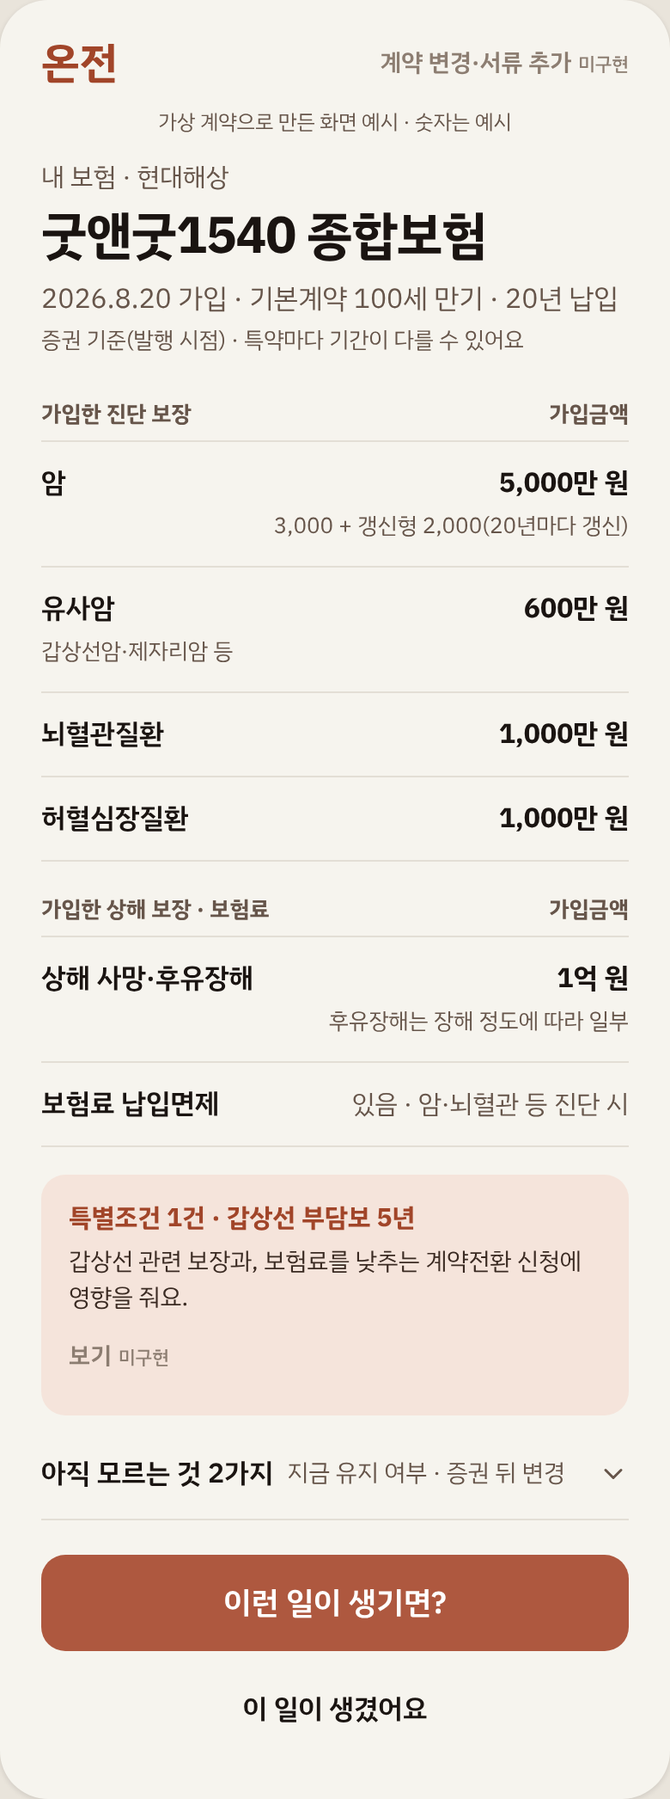
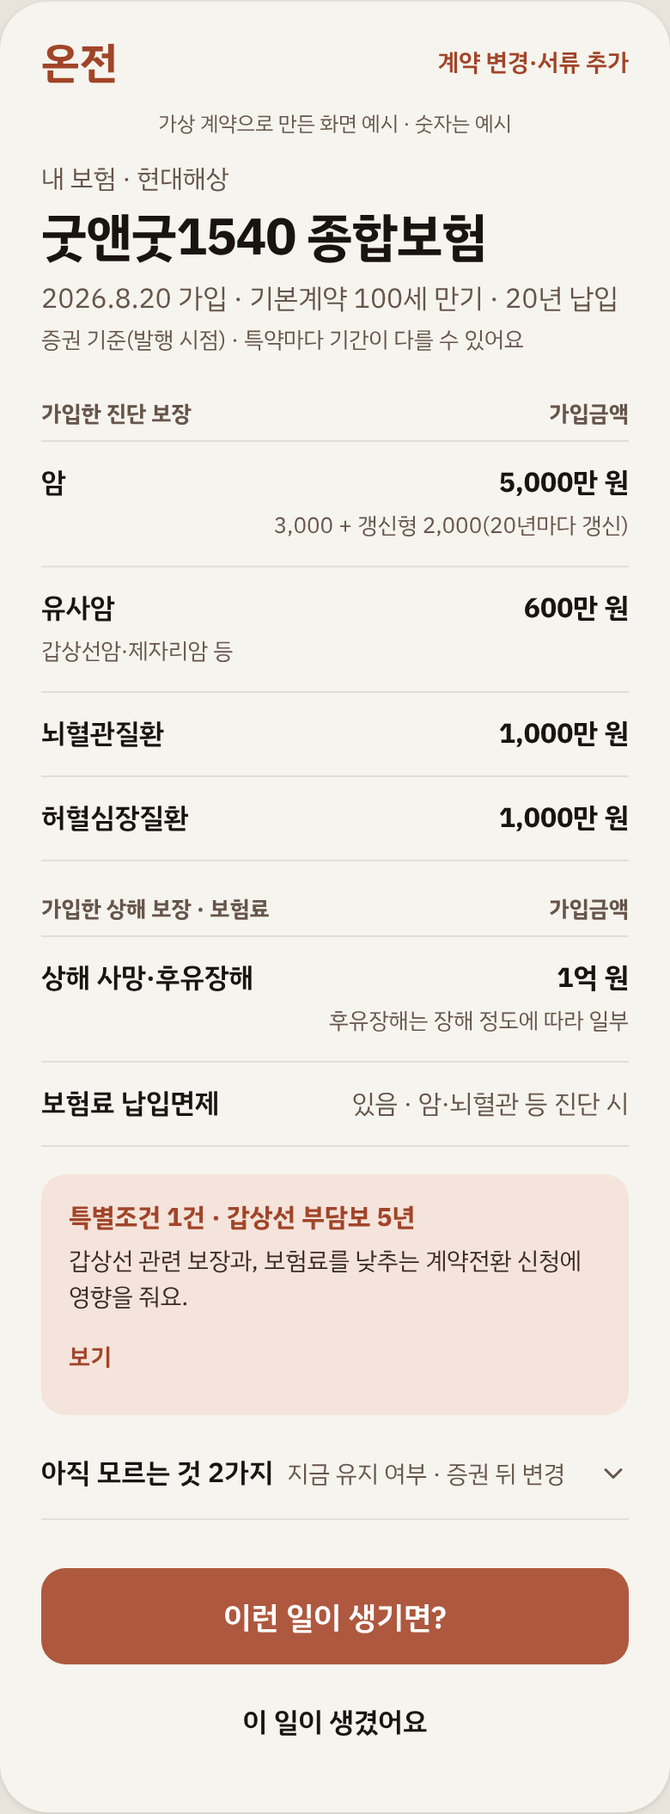
토의 자료: 20차 — 시안 전용 버튼은 실제 디자인+시안 안내, 제품상 불가는 비활성+이유, 겹침·잘림 중심 검사 55항목, 이해 점검 기록
토의 자료이며 설계 채택이나 구현 승인을 뜻하지 않음. 시안 숫자는 계산 엔진과 연결되지 않은 예시.

Claude-Session: https://claude.ai/code/session_01LaYnzNyNWYGvf2wDAbtvPd

diff --git a/docs/blueprint/proposals/시안_세흐름/세흐름_시안.html b/docs/blueprint/proposals/시안_세흐름/세흐름_시안.html
@@ -50,7 +50,7 @@
   .tint .d{font-size:14px;color:#3A2A22}
   .general{font-size:13px;color:var(--ink2);line-height:1.5;margin-top:16px}
   .link-btn{border:0;background:transparent;padding:0;font:inherit;font-weight:600;color:var(--accent-text);cursor:pointer;min-height:44px}
-  .cta{display:flex;flex-direction:column;gap:10px;padding-top:20px}
+  .cta{display:flex;flex-direction:column;gap:10px;padding-top:28px}
   .primary{display:flex;align-items:center;justify-content:center;gap:8px;min-height:56px;border:0;border-radius:14px;background:var(--accent);color:#FFFFFF;font:inherit;font-size:18px;font-weight:600;text-decoration:none;cursor:pointer;width:100%}
   .secondary{display:flex;align-items:center;justify-content:center;gap:8px;min-height:48px;border:0;background:transparent;color:var(--ink);font:inherit;font-size:16px;font-weight:600;text-decoration:none;cursor:pointer}
   .choice{min-height:48px;border:1px solid var(--line2);background:var(--surface);border-radius:12px;font:inherit;font-size:15px;font-weight:600;color:var(--ink);cursor:pointer}
@@ -62,12 +62,6 @@
   .note{font-size:13px;color:var(--ink2)}
   .summary-row{display:flex;align-items:center;gap:8px;margin-top:12px;min-height:44px;font-size:15px}
   .summary-row .tag{font-weight:600}
-  /* 연결 안 된 버튼: 차분한 비활성 + 작은 표시 */
-  .off{color:var(--off) !important;cursor:default}
-  .off .off-tag{font-size:11px;font-weight:500;color:var(--off);margin-left:4px}
-  .choice.off{border-color:var(--line);background:transparent}
-  .primary.off{background:#E8DCD3;color:var(--off) !important}
-  .icon-btn.off svg{stroke:#B3A79C}
   /* 시트 */
   .scrim{position:absolute;inset:0;background:rgba(26,20,17,.38);display:flex;align-items:flex-end}
   .sheet{width:100%;background:var(--surface);border-radius:20px 20px 0 0;padding:10px 24px 24px;display:flex;flex-direction:column;gap:10px}
@@ -83,13 +77,15 @@
   .opt:focus-within{box-shadow:0 0 0 3px rgba(174,88,63,.25)}
   .sheet-actions{display:grid;grid-template-columns:1fr 2fr;gap:8px;margin-top:6px}
   .done[disabled]{background:#E8DCD3;color:var(--off);cursor:default}
+  .toast{position:absolute;left:24px;right:24px;bottom:24px;background:#2A211C;color:#FFFDFA;font-size:14px;line-height:1.45;border-radius:12px;padding:12px 14px;box-shadow:0 4px 16px rgba(26,20,17,.25)}
+  .why{font-size:13px;color:var(--ink2);text-align:right}
   [hidden]{display:none !important}
   @media (max-width:440px){.wrap{padding:16px 8px 40px}.screen{border-radius:20px}}
 </style>
 </head>
 <body>
 <div class="wrap">
-  <p class="page-note"><b>가상 계약·가상 사건으로 만든 화면 예시입니다.</b> 숫자는 가상 계약과 약관 조항으로 손으로 계산한 예시이며 계산 엔진과 연결되지 않았습니다. 흐린 글자에 <b>"미구현"</b>이 붙은 버튼은 아직 연결하지 않아 눌러도 아무 일이 없습니다.</p>
+  <p class="page-note"><b>가상 계약·가상 사건으로 만든 화면 예시입니다.</b> 숫자는 가상 계약과 약관 조항으로 손으로 계산한 예시이며 계산 엔진과 연결되지 않았습니다. 시안에서 아직 연결하지 않은 버튼은 <b>실제 모양 그대로</b> 두었고, 누르면 "화면 시안이라 아직 연결되지 않았어요"라고 알려 줍니다.</p>
   <div class="row">
 
     <!-- A -->
@@ -97,7 +93,7 @@
       <h2 id="ha">A. 이런 일이 생기면? (가상 탐색)</h2>
       <div class="screen" id="screen-a" data-testid="screen-a">
         <div class="top">
-          <button class="icon-btn off" aria-disabled="true" aria-label="뒤로 (미구현)"><svg width="22" height="22" viewBox="0 0 24 24" fill="none" stroke="#1A1411" stroke-width="2" stroke-linecap="round" stroke-linejoin="round" aria-hidden="true"><path d="M15 18l-6-6 6-6"/></svg></button>
+          <button class="icon-btn" data-proto aria-label="뒤로"><svg width="22" height="22" viewBox="0 0 24 24" fill="none" stroke="#1A1411" stroke-width="2" stroke-linecap="round" stroke-linejoin="round" aria-hidden="true"><path d="M15 18l-6-6 6-6"/></svg></button>
           <div class="title-bar">이런 일이 생기면? <span class="crumb">· 굿앤굿1540</span></div>
         </div>
         <div class="virtual">가상 계약으로 만든 화면 예시 · 숫자는 예시</div>
@@ -124,7 +120,7 @@
         <div class="assume" data-testid="a-assume">
           <span class="pill">예시 조건</span>
           <span>2027.3.15 진단 · 처음 받는 진단금</span>
-          <button class="link-btn off" aria-disabled="true" style="margin-left:auto;font-size:13px;min-height:36px">바꾸기<span class="off-tag">미구현</span></button>
+          <button class="link-btn" data-proto style="margin-left:auto;font-size:13px;min-height:36px">바꾸기</button>
         </div>
 
         <div data-a="general">
@@ -146,11 +142,12 @@
             <div class="t">이 부위에 특별조건이 있어요</div>
             <div class="d">증권: 갑상선 · 부담보 5년</div>
             <div class="d">예외 적용 여부가 확인되지 않아 지급액 계산을 보류했어요.</div>
-            <button class="link-btn off" aria-disabled="true" style="align-self:flex-start;font-size:14px">적용 조건 보기<span class="off-tag">미구현</span></button>
+            <button class="link-btn" data-proto style="align-self:flex-start;font-size:14px">적용 조건 보기</button>
           </div>
         </div>
 
-        <div class="general">약관에 따라 계산한 금액이에요. 실제 지급은 보험회사 심사로 정해져요. <button class="link-btn off" aria-disabled="true" style="font-size:13px;min-height:24px;margin-left:4px">자세히<span class="off-tag">미구현</span></button></div>
+        <div class="general">약관에 따라 계산한 금액이에요. 실제 지급은 보험회사 심사로 정해져요. <button class="link-btn" data-proto style="font-size:13px;min-height:24px;margin-left:4px">자세히</button></div>
+        <div class="toast" role="status" aria-live="polite" hidden data-toast></div>
         <div class="cta">
           <a class="primary" href="#screen-c">실제로 진단받았어요</a>
           <a class="secondary" href="#screen-b">내 보험 보기</a>
@@ -164,7 +161,7 @@
       <div class="screen" id="screen-b" data-testid="screen-b">
         <div class="top">
           <div class="logo">온전</div>
-          <button class="link-btn off" aria-disabled="true" style="margin-left:auto;font-size:14px">계약 변경·서류 추가<span class="off-tag">미구현</span></button>
+          <button class="link-btn" data-proto style="margin-left:auto;font-size:14px">계약 변경·서류 추가</button>
         </div>
         <div class="virtual">가상 계약으로 만든 화면 예시 · 숫자는 예시</div>
         <div class="crumb">내 보험 · 현대해상</div>
@@ -188,7 +185,7 @@
         <div class="tint" style="margin-top:16px;padding:14px 16px;gap:4px">
           <div class="t" style="font-size:15px">특별조건 1건 · 갑상선 부담보 5년</div>
           <div class="d">갑상선 관련 보장과, 보험료를 낮추는 계약전환 신청에 영향을 줘요.</div>
-          <button class="link-btn off" aria-disabled="true" style="align-self:flex-start;font-size:14px;min-height:40px">보기<span class="off-tag">미구현</span></button>
+          <button class="link-btn" data-proto style="align-self:flex-start;font-size:14px;min-height:40px">보기</button>
         </div>
 
         <div style="border-bottom:1px solid var(--line);margin-top:8px">
@@ -202,8 +199,8 @@
               <div style="font-size:15px;font-weight:600">지금도 유지 중인가요?</div>
               <div class="note" style="font-size:14px">사고나 진단 금액을 볼 때 필요해요. 지금 답하지 않아도 돼요.</div>
               <div style="display:flex;gap:8px;flex-wrap:wrap;margin-top:4px">
-                <button class="choice off" aria-disabled="true" style="padding:0 12px;font-size:14px">유지 중이에요<span class="off-tag">미구현</span></button>
-                <button class="choice off" aria-disabled="true" style="padding:0 12px;font-size:14px">해지·실효된 적 있어요<span class="off-tag">미구현</span></button>
+                <button class="choice" data-proto style="padding:0 12px;font-size:14px">유지 중이에요</button>
+                <button class="choice" data-proto style="padding:0 12px;font-size:14px">해지·실효된 적 있어요</button>
               </div>
             </div>
             <div style="display:flex;flex-direction:column;gap:6px">
@@ -213,6 +210,7 @@
           </div>
         </div>
 
+        <div class="toast" role="status" aria-live="polite" hidden data-toast></div>
         <div class="cta">
           <a class="primary" href="#screen-a">이런 일이 생기면?</a>
           <a class="secondary" href="#screen-c">이 일이 생겼어요</a>
@@ -225,7 +223,7 @@
       <h2 id="hc">C. 이 일이 생겼어요 (실제 사건)</h2>
       <div class="screen" id="screen-c" data-testid="screen-c">
         <div class="top">
-          <button class="icon-btn off" aria-disabled="true" aria-label="뒤로 (미구현)"><svg width="22" height="22" viewBox="0 0 24 24" fill="none" stroke="#1A1411" stroke-width="2" stroke-linecap="round" stroke-linejoin="round" aria-hidden="true"><path d="M15 18l-6-6 6-6"/></svg></button>
+          <button class="icon-btn" data-proto aria-label="뒤로"><svg width="22" height="22" viewBox="0 0 24 24" fill="none" stroke="#1A1411" stroke-width="2" stroke-linecap="round" stroke-linejoin="round" aria-hidden="true"><path d="M15 18l-6-6 6-6"/></svg></button>
           <div class="crumb">이 일이 생겼어요 · 굿앤굿1540</div>
         </div>
         <div class="virtual">가상 계약·가상 사건으로 만든 화면 예시 · 숫자는 예시</div>
@@ -261,7 +259,7 @@
               <div class="r" data-row="renew"><span class="n">암진단(갱신형)</span><span class="v">2,000만 원</span></div>
               <div class="r" data-row="waiver"><span class="n">보험료납입면제대상</span><span class="v">100만 원</span></div>
               <div class="r" style="flex-wrap:wrap"><span class="n">보험료 납입면제</span><span class="m" style="font-size:15px">다음 회차부터 · 요청 필요</span>
-                <button class="link-btn off" aria-disabled="true" data-testid="c-waiver-guide" style="font-size:14px;min-height:36px;width:100%;text-align:left">납입면제 요청 안내<span class="off-tag">미구현</span></button>
+                <button class="link-btn" data-proto data-testid="c-waiver-guide" style="font-size:14px;min-height:36px;width:100%;text-align:left">납입면제 요청 안내</button>
               </div>
             </div>
           </div>
@@ -275,14 +273,15 @@
               <span class="k">결과보고일</span><span>2027.1.5 · 결과지에서 읽고 확인함</span>
               <span class="k">계약 유지</span><span>2027.2.1에 답하신 내용(문서 확인 아님)</span>
               <span class="k">계약 내용</span><span>증권 기준(발행 시점)</span>
-              <span style="grid-column:1 / 3"><button class="link-btn off" aria-disabled="true" style="font-size:14px">고치기<span class="off-tag">미구현</span></button></span>
+              <span style="grid-column:1 / 3"><button class="link-btn" data-proto style="font-size:14px">고치기</button></span>
             </div>
           </div>
         </div>
 
-        <div class="general">약관에 따라 계산한 금액이에요. 실제 지급은 보험회사 심사로 정해져요. <button class="link-btn off" aria-disabled="true" style="font-size:13px;min-height:24px;margin-left:4px">자세히<span class="off-tag">미구현</span></button></div>
+        <div class="general">약관에 따라 계산한 금액이에요. 실제 지급은 보험회사 심사로 정해져요. <button class="link-btn" data-proto style="font-size:13px;min-height:24px;margin-left:4px">자세히</button></div>
+        <div class="toast" role="status" aria-live="polite" hidden data-toast></div>
         <div class="cta" data-testid="c-cta">
-          <button class="primary off" aria-disabled="true">보험금 청구 준비<span class="off-tag">미구현</span></button>
+          <button class="primary" data-proto>보험금 청구 준비</button>
         </div>
 
         <!-- 이전에 받은 보장 고르기 시트 -->
@@ -297,8 +296,9 @@
             <label class="opt" data-opt="unknown"><input type="checkbox" value="unknown"><span class="box"><svg width="14" height="14" viewBox="0 0 24 24" fill="none" stroke="#FFFFFF" stroke-width="3" stroke-linecap="round" stroke-linejoin="round" aria-hidden="true"><path d="M20 6L9 17l-5-5"/></svg></span><span>어떤 보장인지 모르겠어요</span></label>
             <div class="sheet-actions">
               <button class="choice" id="c-sheet-cancel">취소</button>
-              <button class="primary done" id="c-sheet-done" disabled style="min-height:48px;font-size:16px">완료</button>
+              <button class="primary done" id="c-sheet-done" disabled aria-describedby="c-sheet-why" style="min-height:48px;font-size:16px">완료</button>
             </div>
+            <div class="why" id="c-sheet-why" data-testid="c-sheet-why">받은 보장을 고르거나 "어떤 보장인지 모르겠어요"를 골라 주세요.</div>
           </div>
         </div>
       </div>
@@ -349,7 +349,9 @@
       opt.classList.toggle('on', on);
       opt.querySelector('input').checked = on;
     });
-    document.getElementById('c-sheet-done').disabled = !(draft.unknown || count(draft.taken) > 0);
+    var ready = draft.unknown || count(draft.taken) > 0;
+    document.getElementById('c-sheet-done').disabled = !ready;
+    document.getElementById('c-sheet-why').hidden = ready;
   }
   function renderC() {
     var yes = st.prior === 'yes';
@@ -419,6 +421,18 @@
     sheetOpen = false; renderC(); document.getElementById('c-edit').focus();
   });
   renderC();
+
+  // 시안에서만 연결하지 않은 버튼: 실제 모양 그대로, 누르면 시안임을 알린다
+  document.querySelectorAll('[data-proto]').forEach(function (el) {
+    el.addEventListener('click', function (e) {
+      e.preventDefault();
+      var toast = el.closest('.screen').querySelector('[data-toast]');
+      toast.textContent = '화면 시안이라 아직 연결되지 않았어요.';
+      toast.hidden = false;
+      clearTimeout(toast._t);
+      toast._t = setTimeout(function () { toast.hidden = true; }, 2600);
+    });
+  });
 })();
 </script>
 </body>

diff --git a/docs/blueprint/proposals/시안_세흐름/검증/run.js b/docs/blueprint/proposals/시안_세흐름/검증/run.js
@@ -14,12 +14,30 @@ function check(name, cond, detail) { log.push((cond ? 'PASS ' : 'FAIL ') + name 
   const txt = async s => (await page.locator(s).innerText()).replace(/\s+/g, ' ').trim();
   const vis = s => page.locator(s).isVisible();
   const y = async s => (await page.locator(s).boundingBox()).y;
+  // 겹침·잘림 검사: 화면 밖으로 나가는 요소, 서로 겹치는 블록, 잘린 글자
+  const layout = async (label) => {
+    const r = await page.evaluate(() => {
+      const out = [];
+      document.querySelectorAll('.screen').forEach(sc => {
+        const sb = sc.getBoundingClientRect();
+        sc.querySelectorAll('*').forEach(el => {
+          if (el.closest('.scrim') || el.closest('[data-toast]')) return;
+          const b = el.getBoundingClientRect(); if (!b.width || !b.height) return;
+          if (b.left < sb.left - 1 || b.right > sb.right + 1) out.push(sc.id + ' 밖으로 나감: ' + (el.textContent || el.tagName).trim().slice(0, 20));
+          if (el.children.length === 0 && el.scrollWidth > el.clientWidth + 1 && getComputedStyle(el).overflow !== 'visible') out.push(sc.id + ' 잘림: ' + el.textContent.trim().slice(0, 20));
+        });
+        const kids = [...sc.children].filter(k => getComputedStyle(k).position !== 'absolute' && k.getBoundingClientRect().height > 0);
+        for (let i = 1; i < kids.length; i++) { const a = kids[i-1].getBoundingClientRect(), b = kids[i].getBoundingClientRect(); if (b.top < a.bottom - 1) out.push(sc.id + ' 겹침: ' + (kids[i].textContent || '').trim().slice(0, 20)); }
+      });
+      return out;
+    });
+    check('겹침·잘림 없음(' + label + ')', r.length === 0, r.slice(0, 5).join(' | '));
+  };
   const shot = async (sel, name) => { await page.locator(sel).screenshot({ path: OUT + '/' + name }); log.push('캡처 ' + name); };
 
   // A: 상황 선택 → 큰 금액 → 가정 조건 → 내역
   const ySeg = await y('#screen-a .seg'), yBig = await y('[data-testid="a-big"]'), yAs = await y('[data-testid="a-assume"]'), yRows = await y('#screen-a [data-a="general"] .rows');
   check('A 순서: 상황 선택 → 금액 → 가정 조건 → 내역', ySeg < yBig && yBig < yAs && yAs < yRows, [ySeg, yBig, yAs, yRows].map(Math.round).join(' < '));
-  check('A 금액 위치가 화면 위쪽 300px 안', yBig - (await y('#screen-a')) < 300, Math.round(yBig - (await y('#screen-a'))) + 'px');
   { const h = (await page.locator('[data-testid="a-assume"]').boundingBox()).height; check('A 가정 조건 한 줄', h <= 44, Math.round(h) + 'px'); }
   check('A 소개 문장 없음', !(await page.locator('#screen-a').innerText()).includes('미리 알아보는 계산이에요'));
   check('A 기본: 5,100만 원', (await txt('[data-testid="a-big"]')) === '5,100만 원');
@@ -34,8 +52,7 @@ function check(name, cond, detail) { log.push((cond ? 'PASS ' : 'FAIL ') + name 
   check('C 기본: 5,100만 원', (await txt('#c-total')) === '5,100만 원');
   check('C 주 행동은 하나', (await page.locator('[data-testid="c-cta"] .primary').count()) === 1 && (await page.locator('[data-testid="c-cta"] .secondary').count()) === 0);
   check('C 납입면제 안내는 보험별 내역 안', (await page.locator('#c-breakdown-body [data-testid="c-waiver-guide"]').count()) === 1);
-  const gen = await page.locator('#screen-c .general').boundingBox(), cta = await page.locator('[data-testid="c-cta"]').boundingBox();
-  check('C 안내 문구와 버튼 사이 공백 60px 이하', cta.y - (gen.y + gen.height) <= 60, Math.round(cta.y - (gen.y + gen.height)) + 'px');
+  await layout('기본 화면');
   await shot('#screen-a', '01_A_기본.png'); await shot('#screen-b', '02_B_기본.png'); await shot('#screen-c', '03_C_기본.png');
 
   // C: 받은 적 있음 → 시트
@@ -43,11 +60,14 @@ function check(name, cond, detail) { log.push((cond ? 'PASS ' : 'FAIL ') + name 
   check('시트 열림', await vis('[data-testid="c-sheet"]'));
   check('시트 열림: 본문은 금액 대신 "확인 중"', !(await vis('#c-number')) && (await txt('[data-testid="c-pending"]')) === '어떤 진단금을 받았는지 확인 중이에요');
   check('시트: 아무것도 안 고르면 완료 비활성', await page.locator('#c-sheet-done').isDisabled());
+  check('시트: 비활성 이유 표시', await vis('[data-testid="c-sheet-why"]'));
   check('시트: "어떤 보장인지 모르겠어요" 있음', await vis('#c-sheet .opt[data-opt="unknown"]'));
   await page.click('#c-sheet .opt[data-opt="cancer"]');
   check('암진단 선택: 체크 표시 보임', await page.locator('#c-sheet .opt[data-opt="cancer"] .box svg').evaluate(e => getComputedStyle(e).visibility === 'visible'));
   check('암진단 선택: 체크박스 checked', await page.locator('#c-sheet .opt[data-opt="cancer"] input').isChecked());
   check('암진단 선택: 완료 활성', await page.locator('#c-sheet-done').isEnabled());
+  check('암진단 선택: 비활성 이유 숨김', !(await vis('[data-testid="c-sheet-why"]')));
+  await layout('시트 열림');
   await shot('#screen-c', '04_C_시트_암진단선택.png');
   await page.click('#c-sheet-done');
   check('완료: 시트 닫힘', !(await vis('[data-testid="c-sheet"]')));
@@ -55,6 +75,7 @@ function check(name, cond, detail) { log.push((cond ? 'PASS ' : 'FAIL ') + name 
   check('완료: 2,100만 원', (await txt('#c-total')) === '2,100만 원');
   check('완료: 예시 금액 문구', (await txt('#c-lead')) === '이전에 받은 보장을 뺀 예시 금액');
   check('완료: 선택 목록은 본문에 펼쳐지지 않음', !(await vis('#c-sheet .opt[data-opt="cancer"]')));
+  await layout('1개 반영');
   await shot('#screen-c', '05_C_완료_1개반영.png');
 
   // 수정 → 선택 유지 확인 → 해제 → 취소(변경 버림)
@@ -76,6 +97,7 @@ function check(name, cond, detail) { log.push((cond ? 'PASS ' : 'FAIL ') + name 
   check('모르겠어요 완료: 요약 "확인 필요"', (await txt('#c-summary-text')) === '이전에 받은 보장 확인 필요');
   await page.click('#c-breakdown');
   check('모르겠어요 완료: 내역도 "확인 필요"', (await txt('#c-rows [data-row="cancer"] .v')) === '확인 필요');
+  await layout('모르겠어요, 내역 펼침');
   await shot('#screen-c', '06_C_모르겠어요.png');
   await page.click('#c-breakdown');
 
@@ -100,19 +122,30 @@ function check(name, cond, detail) { log.push((cond ? 'PASS ' : 'FAIL ') + name 
   await page.click('#c-edit');
   check('받은 적 없음 수정: 질문으로', await vis('#c-ask'));
 
-  // 미구현: 차분한 표시(점선 없음) + 작은 표시 + 무반응
+  // 시안에서만 연결하지 않은 버튼: 실제 디자인 유지 + 누르면 시안 안내, 상태 변화 없음
+  check('C 보험금 청구 준비: 정상 테라코타 주 버튼', await page.locator('[data-testid="c-cta"] .primary').evaluate(e => getComputedStyle(e).backgroundColor === 'rgb(174, 88, 63)' && !e.disabled));
+  check('미구현 표시 없음(흐린 비활성 모양·"미구현" 글자)', (await page.locator('.off, .off-tag').count()) === 0 && !(await page.locator('.screen').allInnerTexts()).join(' ').includes('미구현'));
   for (const s of ['a', 'b', 'c']) {
-    const els = page.locator('#screen-' + s + ' .off');
-    const n = await els.count();
-    const tagged = await page.locator('#screen-' + s + ' .off .off-tag').count();
-    const icons = await page.locator('#screen-' + s + ' .icon-btn.off[aria-label*="미구현"]').count();
-    const dashed = await els.evaluateAll(list => list.filter(e => getComputedStyle(e).outlineStyle === 'dashed').length);
-    check('화면 ' + s.toUpperCase() + ' 미구현 ' + n + '개: 작은 "미구현" 표시 또는 라벨, 점선 없음', tagged + icons === n && dashed === 0, '글자 ' + tagged + ', 아이콘 ' + icons + ', 점선 ' + dashed);
+    const n = await page.locator('#screen-' + s + ' [data-proto]').count();
+    let ok = 0;
+    for (const el of await page.locator('#screen-' + s + ' [data-proto]').all()) {
+      if (!(await el.isVisible())) {
+        if (s === 'a') await page.click('#screen-a .seg button[data-scen="thyroid"]');
+        else { const fold = s === 'b' ? '#b-unknown' : (await el.evaluate(x => !!x.closest('#c-breakdown-body'))) ? '#c-breakdown' : '#c-inputs'; await page.click(fold); }
+      }
+      const before = await page.evaluate(() => [location.hash, document.getElementById('c-total').textContent, document.getElementById('c-summary-text').textContent]);
+      await el.click();
+      const toast = page.locator('#screen-' + s + ' [data-toast]');
+      const shown = (await toast.isVisible()) && (await toast.innerText()) === '화면 시안이라 아직 연결되지 않았어요.';
+      const after = await page.evaluate(() => [location.hash, document.getElementById('c-total').textContent, document.getElementById('c-summary-text').textContent]);
+      if (shown && JSON.stringify(before) === JSON.stringify(after)) ok++;
+    }
+    check('화면 ' + s.toUpperCase() + ' 시안 전용 버튼 ' + n + '개: 누르면 시안 안내, 상태·주소 변화 없음', ok === n, ok + '/' + n);
   }
-  const before = await page.evaluate(() => [location.hash, document.getElementById('c-total').textContent]);
-  for (const el of await page.locator('#screen-c .off').all()) { if (await el.isVisible()) await el.click({ force: true }); }
-  const after = await page.evaluate(() => [location.hash, document.getElementById('c-total').textContent]);
-  check('C 미구현 버튼 누름: 상태·주소 변화 없음', JSON.stringify(before) === JSON.stringify(after));
+  await page.click('#screen-a .seg button[data-scen="general"]');
+  await page.click('[data-testid="c-cta"] .primary');
+  await shot('#screen-c', '07_C_청구준비_시안안내.png');
+  for (const f of ['#b-unknown', '#c-breakdown', '#c-inputs']) { if ((await page.getAttribute(f, 'aria-expanded')) === 'true') await page.click(f); }
 
   // 화면 사이 이동
   await page.click('#screen-a a.primary');
@@ -123,6 +156,7 @@ function check(name, cond, detail) { log.push((cond ? 'PASS ' : 'FAIL ') + name 
   // A 다른 경우
   await page.click('#screen-a .seg button[data-scen="thyroid"]');
   check('A 갑상선암: 특별조건 카드', await vis('#screen-a [data-a="thyroid"] .tint'));
+  await layout('A 갑상선암');
   await shot('#screen-a', '11_A_갑상선암.png');
   await page.click('#screen-a .seg button[data-scen="general"]');
 

diff --git a/docs/blueprint/proposals/시안_세흐름/README.md b/docs/blueprint/proposals/시안_세흐름/README.md
@@ -1,6 +1,6 @@
 # 세 흐름 시각 시안 원본 사본
 
-상태: **토의 자료. 미확정.** 2026-10-12(19차 반영)
+상태: **토의 자료. 미확정.** 2026-10-12(20차 반영)
 
 - **가상 계약·가상 사건으로 만든 화면 예시다.** 실제 개인 자료가 아니다. 숫자는 가상 계약과 약관 조항으로 손으로 계산한 예시이며, 계산 엔진과 연결되지 않았다.
 - 원본은 Design 캔버스 시안(https://claude.ai/artifact/DuB8aN9HtPJY5ECetSCTKu, 비공개)이다. 이 폴더는 그 파일의 사본이다.
@@ -8,15 +8,17 @@
 - `.dc.html` 세 개와 `canvas.json`은 캔버스 5판의 사본이다. 독립 실행되지 않는다(`support.js`는 캔버스가 제공). 브라우저 시안보다 이전 판이며, 미구현 버튼의 화면 표시가 없다.
 - 색과 구성은 [화면 조작 설계서](../../../design/화면_조작_설계서.md) §3.1의 시안 실측 토큰을 따른다(배경 #F6F4EE, 글자 #1A1411·#66554A, 테라코타 #AE583F·#A14529, 구분선 #E3DED5, 세그먼트 #EDE8E1·#E8D9CD).
 
-## 어디까지 눌러 볼 수 있나
+## 두 종류의 "누를 수 없는" 버튼 (20차, 토의상 제안·사용자)
+| 종류 | 화면 처리 | 이 시안의 예 |
+|---|---|---|
+| 제품상 할 수 없는 행동 | 비활성으로 두고 이유를 표시 | 시트의 "완료": 아무것도 고르지 않으면 비활성, 아래에 "받은 보장을 고르거나 '어떤 보장인지 모르겠어요'를 골라 주세요." |
+| 시안에서만 연결하지 않은 행동 | 실제 디자인을 그대로 두고, 누르면 "화면 시안이라 아직 연결되지 않았어요." 안내 | 아래 표의 "시안에서 연결 안 함" |
 
-연결 안 된 버튼은 **흐린 글자와 작은 "미구현" 표시**로 구분한다(뒤로 버튼은 흐린 아이콘과 "뒤로 (미구현)" 라벨). 눌러도 아무 일이 없다.
-
-| 화면 | 동작함 | 연결 안 됨 |
+| 화면 | 동작함 | 시안에서 연결 안 함(누르면 시안 안내) |
 |---|---|---|
 | A 이런 일이 생기면? | 일반 암 / 제자리암 등 / 갑상선암 전환, "실제로 진단받았어요"(→C), "내 보험 보기"(→B) | 뒤로, 예시 조건 "바꾸기", "적용 조건 보기", "자세히" |
 | B 내 보험 | "아직 모르는 것" 펼치기·접기, "이런 일이 생기면?"(→A), "이 일이 생겼어요"(→C) | "계약 변경·서류 추가", 특별조건 "보기", "유지 중이에요"·"해지·실효된 적 있어요" |
-| C 이 일이 생겼어요 | "받은 적 없어요"·"받은 적 있어요", 이미 받은 보장 고르기 시트(체크, "어떤 보장인지 모르겠어요", 취소, 완료), "수정", "보험별 내역"·"계산에 쓴 정보" 펼치기 | 뒤로, "납입면제 요청 안내"(보험별 내역 안), "고치기"(계산에 쓴 정보 안), "자세히", "보험금 청구 준비" |
+| C 이 일이 생겼어요 | "받은 적 없어요"·"받은 적 있어요", 이미 받은 보장 고르기 시트(체크, "어떤 보장인지 모르겠어요", 취소, 완료), "수정", "보험별 내역"·"계산에 쓴 정보" 펼치기 | 뒤로, "납입면제 요청 안내", "고치기"(계산에 쓴 정보 안), "자세히", "보험금 청구 준비" |
 
 ## C의 "이전에 받은 보장 반영"에 대해
 - 고른 보장을 빼고 합계를 다시 보인다. 이 사례의 세 특약(암진단Ⅱ, 암진단Ⅱ(갱신형), 보험료납입면제대상)이 약관상 최초 1회만 지급되는 규칙을 화면에서 보여 주는 예시다. 일반 계산 규칙이 아니다.
@@ -24,11 +26,12 @@
 - "어떤 보장인지 모르겠어요"로 완료하면 금액을 보이지 않고 "어떤 보장을 받았는지 확인이 필요해요"를 보인다. 억지로 고르게 하지 않는다.
 - "모르겠어요"와 특정 보장은 함께 고를 수 없다(하나를 고르면 다른 쪽이 풀린다). 취소하면 시트 안에서 바꾼 것은 버리고 이전 결과를 유지한다.
 
-## 실행 검증 (2026-10-12)
-- 방법: Playwright 1.56 + Chromium(헤드리스)으로 `세흐름_시안.html`을 열어 버튼을 실제로 누르고, 문구·금액·표시 여부·위치를 확인했다. 캡처는 기기 배율 2배.
-- 스크립트: [검증/run.js](검증/run.js) · 결과: [검증/결과.txt](검증/결과.txt)(49항목, 실패 0)
-- 확인한 것: A의 정보 순서(상황 선택 → 금액 → 가정 조건 → 내역)와 가정 조건 한 줄, B의 "가입한 진단 보장"·"가입금액"·"기본계약 100세 만기", C의 주 행동 하나·납입면제 안내 위치·안내 문구와 버튼 사이 공백, 시트의 선택·체크 표시·완료 비활성·취소·수정·"모르겠어요" 처리, 미구현 버튼의 표시(점선 없음)와 무반응, 화면 사이 이동, 390px 폭, 콘솔 오류, 웹 글꼴.
-- 이 검증은 화면 동작 검증이다. 숫자가 맞는지는 계산 엔진으로 검증하지 않았다(숫자는 예시).
+## 실행 검증 (2026-10-12, 20차)
+- 방법: Playwright 1.56 + Chromium(헤드리스)으로 `세흐름_시안.html`을 열어 버튼을 실제로 누르고 확인했다. 캡처는 기기 배율 2배.
+- 스크립트: [검증/run.js](검증/run.js) · 결과: [검증/결과.txt](검증/결과.txt)(55항목, 실패 0)
+- 자동 검사가 맡는 것: **겹침·잘림·상태 전환**. 화면 밖으로 나가는 요소, 서로 겹치는 블록, 잘린 글자를 기본·시트·반영·모르겠어요·갑상선암 상태에서 본다. 시트의 선택·체크·완료 비활성과 이유·취소·수정, 시안 전용 버튼의 안내와 무반응, 화면 사이 이동, 390px 폭, 콘솔 오류, 웹 글꼴도 본다.
+- 자동 검사가 맡지 않는 것: 정보가 잘 읽히는지. 간격이나 위치 수치(예: 공백 0px, 금액 204px)는 목표가 아니므로 검사에서 뺐다. 읽기는 화면으로 판단한다.
+- 숫자가 맞는지는 계산 엔진으로 검증하지 않았다(숫자는 예시).
 
 ## 캡처
 | 파일 | 상태 |
@@ -37,4 +40,5 @@
 | [04_C_시트_암진단선택](캡처/04_C_시트_암진단선택.png) | C: "받은 적 있어요" → 시트에서 암진단 선택(체크 표시) |
 | [05_C_완료_1개반영](캡처/05_C_완료_1개반영.png) | C: 완료 후 "이전에 받은 보장 1개 반영 [수정]", 예시 금액 |
 | [06_C_모르겠어요](캡처/06_C_모르겠어요.png) | C: "어떤 보장인지 모르겠어요"로 완료, 보험별 내역 펼침 |
+| [07_C_청구준비_시안안내](캡처/07_C_청구준비_시안안내.png) | C: "보험금 청구 준비"(정상 주 버튼)를 눌렀을 때 시안 안내 |
 | [11_A_갑상선암](캡처/11_A_갑상선암.png) | A의 갑상선암 경우 |

diff --git a/docs/blueprint/proposals/개인계약_세흐름_화면초안.md b/docs/blueprint/proposals/개인계약_세흐름_화면초안.md
@@ -437,3 +437,29 @@
 | 미구현 점선이 실제 버튼보다 눈에 띈다 | 흐린 글자와 작은 "미구현" 표시로 통일했다 |
 
 실행 검증 49항목(실패 0)과 캡처 7장은 [시안 README](시안_세흐름/README.md)에 있다.
+
+## 20차: 버튼 처리 원칙과 이해 점검 (토의상 제안·사용자, 미확정)
+- "보험금 청구 준비"는 정상 테라코타 주 버튼으로 둔다. 비활성 모양은 "내 조건에서는 청구할 수 없나?"라는 오해를 부른다.
+- 두 가지를 구분한다.
+  - 제품상 할 수 없는 행동: 비활성 처리하고 이유를 표시한다.
+  - 시안에서만 연결하지 않은 행동: 실제 디자인을 유지하고 시안임을 안내한다.
+- 간격·위치 수치는 목표가 아니다. 자동 검사는 겹침·잘림·상태 전환을 보고, 정보가 잘 읽히는지는 화면으로 판단한다.
+- 세 화면의 잔수정은 여기서 멈춘다.
+
+**이 시안으로 확인할 세 가지(진행 지시·사용자)**
+1. 지금 보는 금액이 가정상 금액인지, 가입금액인지, 내 사건의 조건부 계산인지
+2. 금액을 바꾸는 미확인 사항이 무엇인지
+3. 다음에 무엇을 할 수 있는지
+
+**구현자 읽기 점검(검토 의견·구현자).** 사용자 시험이 아니다. 화면 문구로 세 가지가 어디서 읽히는지 대조했다.
+
+| | 1. 금액의 성격 | 2. 금액을 바꾸는 미확인 | 3. 다음 행동 |
+|---|---|---|---|
+| A | 금액 바로 위 "일반 암 진단이라면", 바로 아래 "예시 조건" 표시 → 가정상 금액 | 예시 조건 자체(진단일·처음 받는 진단금). 갑상선암은 특별조건 카드 | "실제로 진단받았어요", "내 보험 보기", 조건 "바꾸기" |
+| B | 열 머리 "가입금액", 묶음 제목 "가입한 진단 보장" → 가입금액 | "아직 모르는 것 2가지"(접힘), 특별조건 카드 | "이런 일이 생기면?", "이 일이 생겼어요", "계약 변경·서류 추가" |
+| C | 제목 "위암 진단" + "처음 받는 진단금이라는 조건에서" → 내 사건의 조건부 계산 | 금액 바로 아래 "이전 수령 여부에 따라 달라질 수 있어요" + 답 버튼 | 답 버튼, "보험금 청구 준비" |
+
+**읽기 점검에서 남은 의문(검토 의견·구현자).** 고치지 않고 적어 둔다.
+- 시안 표시 "숫자는 예시"와 A의 제품 문구 "예시 조건"이 같은 낱말을 쓴다. 실제 제품에서는 시안 표시가 사라지므로 시안 안에서만 생기는 겹침이다.
+- A와 C의 금액 문장 구조가 비슷하다("~이라면" / "~조건에서"). 두 화면의 차이는 제목("이런 일이 생기면?" / "위암 진단")과 위치(가정 조건 / 사건 자료)가 맡는다. 실제로 구분되는지는 사람에게 보여 줘야 안다.
+- 확인 방법 제안: 처음 보는 3~5명에게 화면을 몇 초 보여 주고 위 세 질문을 묻는다.
